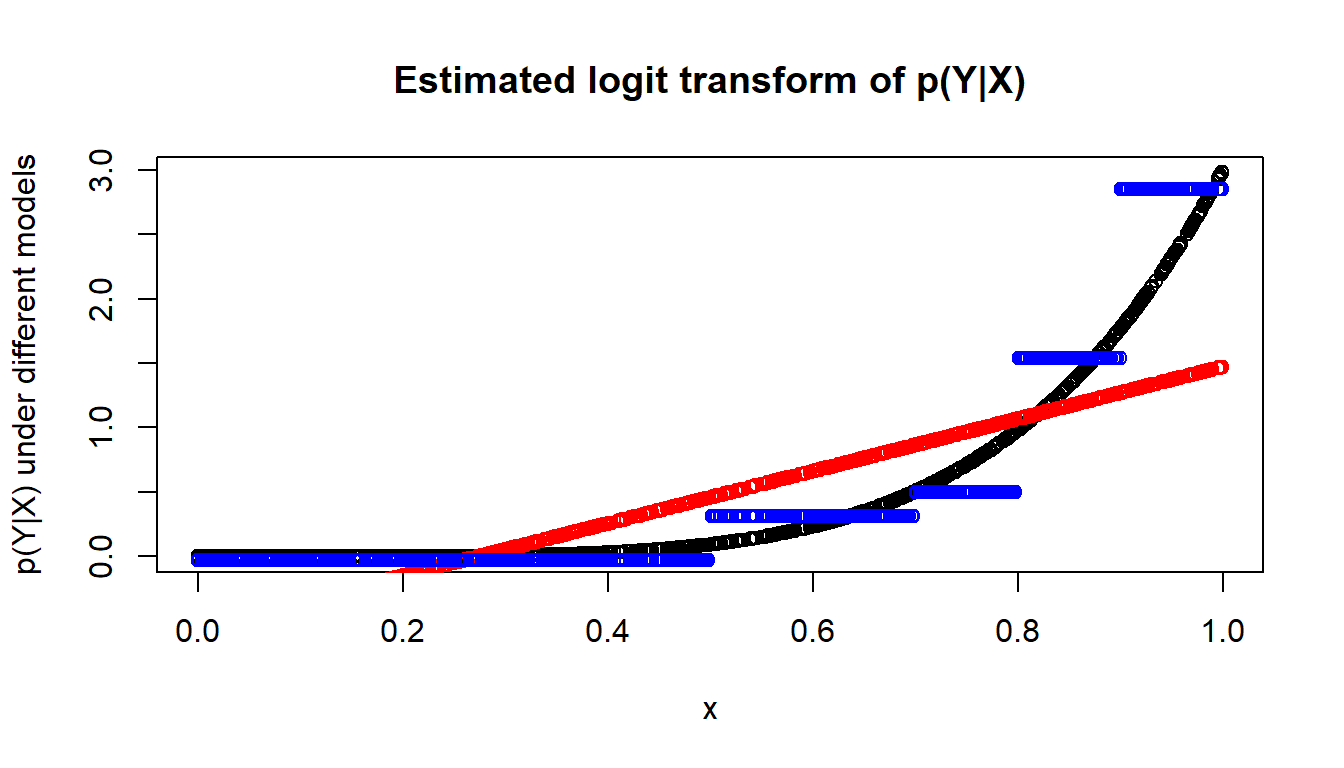
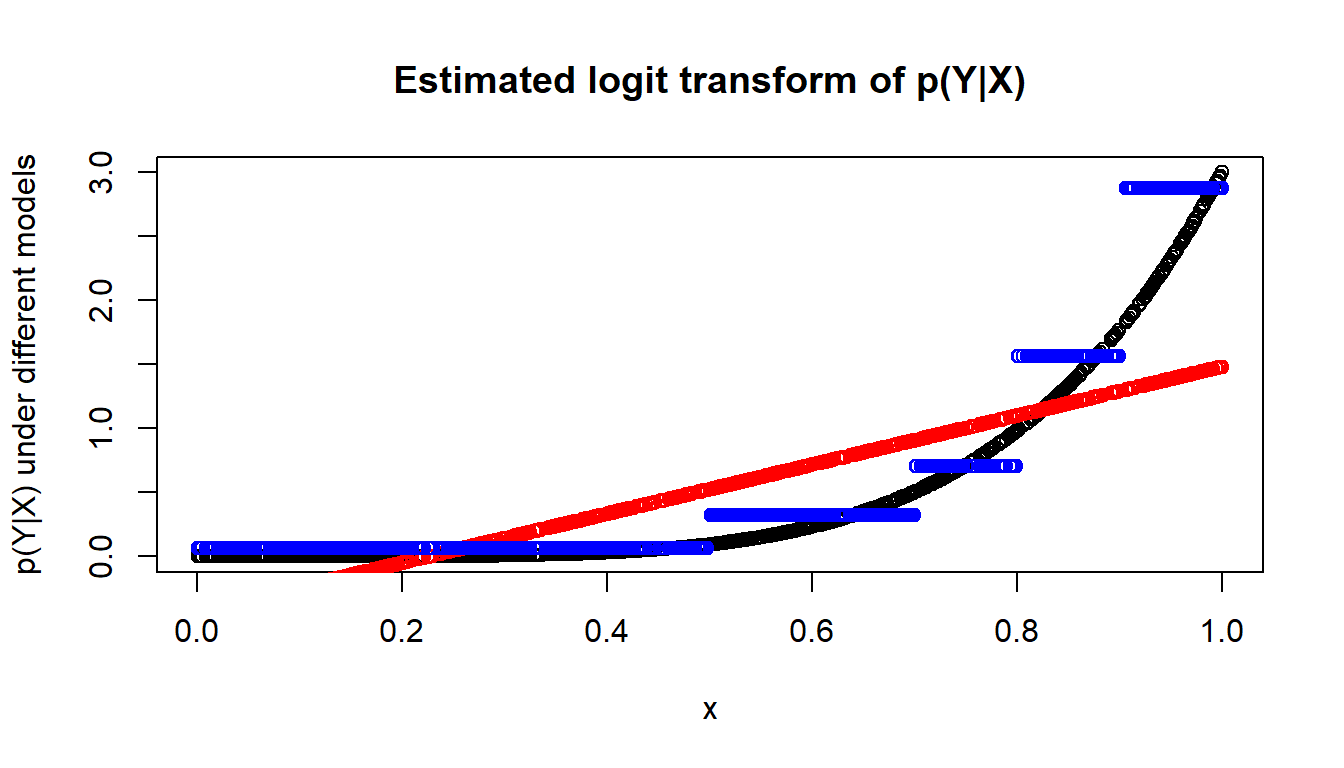
better coverage

diff --git a/docs/articles/glmdisc.html b/docs/articles/glmdisc.html
@@ -173,28 +173,28 @@
 </tr></thead>
 <tbody>
 <tr class="odd">
-<td align="right">0.5716330</td>
-<td align="right">0.6714356</td>
+<td align="right">0.5088394</td>
+<td align="right">0.5877645</td>
 </tr>
 <tr class="even">
-<td align="right">0.5000001</td>
-<td align="right">0.3825270</td>
+<td align="right">0.5754266</td>
+<td align="right">0.6853115</td>
 </tr>
 <tr class="odd">
 <td align="right">0.5000000</td>
-<td align="right">0.3748240</td>
+<td align="right">0.4010795</td>
 </tr>
 <tr class="even">
-<td align="right">0.5004946</td>
-<td align="right">0.4781282</td>
+<td align="right">0.7238732</td>
+<td align="right">0.7488816</td>
 </tr>
 <tr class="odd">
-<td align="right">0.5003886</td>
-<td align="right">0.4726147</td>
+<td align="right">0.5030294</td>
+<td align="right">0.5505415</td>
 </tr>
 <tr class="even">
-<td align="right">0.5101401</td>
-<td align="right">0.5749223</td>
+<td align="right">0.5014771</td>
+<td align="right">0.5294104</td>
 </tr>
 </tbody>
 </table>
@@ -212,34 +212,34 @@
 </tr></thead>
 <tbody>
 <tr class="odd">
-<td align="right">0.5716330</td>
-<td align="right">0.6714356</td>
-<td align="right">0.5769231</td>
+<td align="right">0.5088394</td>
+<td align="right">0.5877645</td>
+<td align="right">0.5168986</td>
 </tr>
 <tr class="even">
-<td align="right">0.5000001</td>
-<td align="right">0.3825270</td>
-<td align="right">0.4931238</td>
+<td align="right">0.5754266</td>
+<td align="right">0.6853115</td>
+<td align="right">0.5804878</td>
 </tr>
 <tr class="odd">
 <td align="right">0.5000000</td>
-<td align="right">0.3748240</td>
-<td align="right">0.4931238</td>
+<td align="right">0.4010795</td>
+<td align="right">0.5168986</td>
 </tr>
 <tr class="even">
-<td align="right">0.5004946</td>
-<td align="right">0.4781282</td>
-<td align="right">0.4931238</td>
+<td align="right">0.7238732</td>
+<td align="right">0.7488816</td>
+<td align="right">0.6702128</td>
 </tr>
 <tr class="odd">
-<td align="right">0.5003886</td>
-<td align="right">0.4726147</td>
-<td align="right">0.4931238</td>
+<td align="right">0.5030294</td>
+<td align="right">0.5505415</td>
+<td align="right">0.5168986</td>
 </tr>
 <tr class="even">
-<td align="right">0.5101401</td>
-<td align="right">0.5749223</td>
-<td align="right">0.4931238</td>
+<td align="right">0.5014771</td>
+<td align="right">0.5294104</td>
+<td align="right">0.5168986</td>
 </tr>
 </tbody>
 </table>
@@ -456,7 +456,7 @@
 <a class="sourceLine" id="cb8-24" title="24"><span class="co">#&gt; Dummy Variable Object</span></a>
 <a class="sourceLine" id="cb8-25" title="25"><span class="co">#&gt; </span></a>
 <a class="sourceLine" id="cb8-26" title="26"><span class="co">#&gt; Formula: ~X1 + X2 + X3</span></a>
-<a class="sourceLine" id="cb8-27" title="27"><span class="co">#&gt; &lt;environment: 0x000000001ecc60e8&gt;</span></a>
+<a class="sourceLine" id="cb8-27" title="27"><span class="co">#&gt; &lt;environment: 0x000000002186c360&gt;</span></a>
 <a class="sourceLine" id="cb8-28" title="28"><span class="co">#&gt; 3 variables, 3 factors</span></a>
 <a class="sourceLine" id="cb8-29" title="29"><span class="co">#&gt; Variables and levels will be separated by '_'</span></a>
 <a class="sourceLine" id="cb8-30" title="30"><span class="co">#&gt; A less than full rank encoding is used</span></a></code></pre></div>
